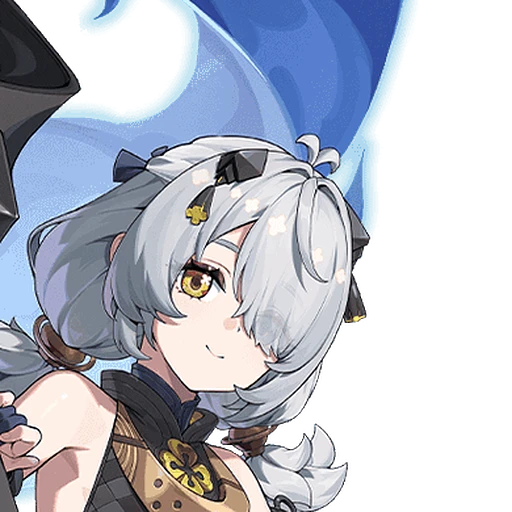
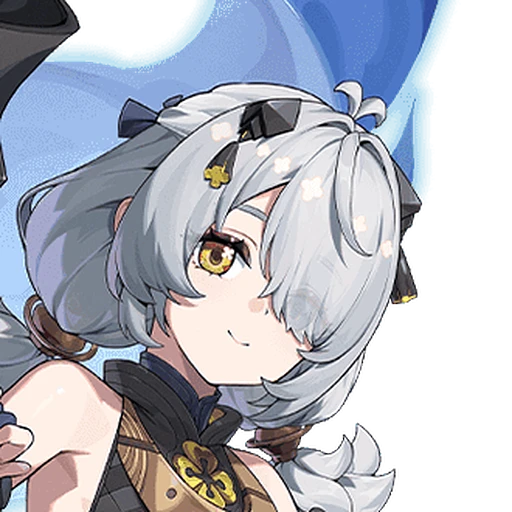
Sunbringer: centre Dracaene's portrait on her face
Claude-Session: https://claude.ai/code/session_011E7ygcYxQYAdbkbtL5EJYd

diff --git a/src/data/agents.js b/src/data/agents.js
@@ -64,5 +64,5 @@ export const AGENTS = [
   {"id": "zhu-yuan", "name": "Zhu Yuan", "rank": "S", "attribute": "ether", "specialty": "attack", "attackType": ["pierce"], "faction": "Criminal Investigation Special Response Team", "version": "1.0"},
   {"id": "phoenix-reffaella", "name": "Phoenix Reffaella", "rank": "S", "attribute": "fire", "specialty": "anomaly", "attackType": ["slash"], "faction": "Krampus Compliance Authority", "version": "3.3"},
   {"id": "severian-lowell", "name": "Severian Lowell", "rank": "S", "attribute": "wind", "specialty": "attack", "attackType": ["slash"], "faction": "Metropolitan Order Division", "version": "3.3", "phase": 2, "upcoming": true},
-  {"id": "sunbringer", "name": "Sunbringer", "rank": "S", "attribute": "fire", "attributeNote": "a special Fire variant, name not announced yet", "specialty": "armorer", "attackType": [], "faction": "Roscaelifer", "version": "3.4", "upcoming": true, "members": [{"key": "eldreda", "name": "Eldreda Sunbringer", "dept": "AAD", "deptName": "Administrative Affairs Department", "focus": "50% 34%"}, {"key": "lindverne", "name": "Lindverne Sunbringer", "dept": "APD", "deptName": "Airspace Patrol Department", "focus": "36% 54%"}, {"key": "dracaene", "name": "Dracaene Sunbringer", "dept": "CCD", "deptName": "Central Computing Department", "focus": "40% 57%"}]},
+  {"id": "sunbringer", "name": "Sunbringer", "rank": "S", "attribute": "fire", "attributeNote": "a special Fire variant, name not announced yet", "specialty": "armorer", "attackType": [], "faction": "Roscaelifer", "version": "3.4", "upcoming": true, "members": [{"key": "eldreda", "name": "Eldreda Sunbringer", "dept": "AAD", "deptName": "Administrative Affairs Department", "focus": "50% 34%"}, {"key": "lindverne", "name": "Lindverne Sunbringer", "dept": "APD", "deptName": "Airspace Patrol Department", "focus": "36% 54%"}, {"key": "dracaene", "name": "Dracaene Sunbringer", "dept": "CCD", "deptName": "Central Computing Department", "focus": "48% 50%", "zoom": 1.45}]},
 ];

diff --git a/src/components/AgentFrame.jsx b/src/components/AgentFrame.jsx
@@ -38,7 +38,7 @@ export default function AgentFrame({ agent, sub, tag, tall = false, passive, fac
           <span className="frame__collage">
             {agent.members.map((m, i) => (
               <span key={m.key} className="frame__collage-cell">
-                <img src={memberArt(agent, i)} alt="" loading="lazy" style={{ objectPosition: m.focus, '--focus': m.focus }} />
+                <img src={memberArt(agent, i)} alt="" loading="lazy" style={{ objectPosition: m.focus, '--focus': m.focus, ...(m.zoom && { '--zoom': m.zoom }) }} />
               </span>
             ))}
           </span>

diff --git a/src/components/Portrait.jsx b/src/components/Portrait.jsx
@@ -22,7 +22,7 @@ export default function Portrait({ agent, size = 'md' }) {
         <span className="portrait__collage">
           {agent.members.map((m, i) => (
             <span key={m.key} className="portrait__collage-cell">
-              <img src={memberArt(agent, i)} alt="" loading="lazy" style={{ objectPosition: m.focus, '--focus': m.focus }} />
+              <img src={memberArt(agent, i)} alt="" loading="lazy" style={{ objectPosition: m.focus, '--focus': m.focus, ...(m.zoom && { '--zoom': m.zoom }) }} />
             </span>
           ))}
         </span>
